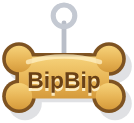
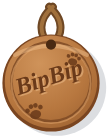
Thẻ tên thành đĩa gỗ tròn khắc chìm theo ảnh thật
- Đĩa tròn nâu đồng, viền chìm sát mép, chữ BipBip nghiêng và dấu chân khắc chìm
- Dây da lộn mảnh luồn qua lỗ ở đỉnh, gập thành quai dưới cằm; bỏ khoen kim loại
- Lắc quanh lỗ treo (100, 150,5); tạo lại PNG tag, parts, penguin-plush.svg, README Rive

Claude-Session: https://claude.ai/code/session_01QMkjUPyG7HGKPseKjEMk1E

diff --git a/packages/web/penguin.js b/packages/web/penguin.js
@@ -661,9 +661,9 @@
     '<linearGradient id="' + N + 'beak" x1="0" y1="0" x2="0" y2="1">' +
       '<stop offset="0" stop-color="#F7DE80"/><stop offset=".55" stop-color="#F2D46B"/><stop offset="1" stop-color="#E9C95E"/>' +
     '</linearGradient>' +
-    '<linearGradient id="' + N + 'tag" x1="0" y1="0" x2="0" y2="1">' +
-      '<stop offset="0" stop-color="#F6D27A"/><stop offset=".55" stop-color="#E7B455"/><stop offset="1" stop-color="#D59A3B"/>' +
-    '</linearGradient>' +
+    '<radialGradient id="' + N + 'tag" cx=".38" cy=".3" r=".85">' +
+      '<stop offset="0" stop-color="#CF935A"/><stop offset=".6" stop-color="#B7773F"/><stop offset="1" stop-color="#9C6130"/>' +
+    '</radialGradient>' +
     '<linearGradient id="' + N + 'beakb" x1="0" y1="0" x2="0" y2="1">' +
       '<stop offset="0" stop-color="#EACB60"/><stop offset="1" stop-color="#E3BE4F"/>' +
     '</linearGradient>';
@@ -701,14 +701,11 @@
   var tufts = 'M95 30 C90 24 90 17 95 13 C95 19 98 24 101 28 Z M100 28 C100 21 103 15 110 14 C106 19 105 24 107 30 Z' +
     'M88 32 C83 29 81 24 83 19 C85 24 89 27 94 29 Z M106 30 C110 26 115 24 119 25 C115 27 112 30 111 33 Z';
 
-  // Thẻ khúc xương: thân chữ nhật bo tròn cộng bốn núm ở hai đầu; grow nới viền ra để vẽ đường viền
-  var TAG_SHAPE = function (g) {
-    return '<rect x="' + (85 - g) + '" y="' + (157.2 - g) + '" width="30" height="14" rx="' + (4 + g) + '"/>' +
-      [[85, 158], [85, 170.4], [115, 158], [115, 170.4]].map(function (c) {
-        return '<circle cx="' + c[0] + '" cy="' + c[1] + '" r="' + (4.4 + g) + '"/>';
-      }).join('');
-  };
-  var TAG_SHADOW = '<g opacity=".16" transform="translate(2 2.4)" fill="#3E4757">' + TAG_SHAPE(1.2) + '</g>';
+  // Dấu chân thú: một đệm lớn và bốn ngón, vẽ quanh gốc (0 0), dùng khắc chìm lên thẻ
+  var TAG_PAW = '<g fill="#6A3A1A" opacity=".85">' +
+    '<ellipse cx="0" cy="1.6" rx="3" ry="2.4"/>' +
+    '<circle cx="-3.6" cy="-1.6" r="1.25"/><circle cx="-1.25" cy="-3.2" r="1.25"/>' +
+    '<circle cx="1.25" cy="-3.2" r="1.25"/><circle cx="3.6" cy="-1.6" r="1.25"/></g>';
 
   var character =
     '<g class="pg-bodyg">' +
@@ -736,18 +733,30 @@
         '<g transform="translate(0 4)"><path d="' + tufts + '" fill="#5A6475"/>' +
         strands('M97 29l-4 -10M101 28l1 -11M104 30l5 -9M92 31l-7 -6', '#5A6475', 1.6) + '</g>' +
       '</g>' +
-      // thẻ tên thú cưng hình khúc xương treo ở cổ: khoen kim loại ở (100 143), lắc nhẹ quanh khoen
+      // thẻ tên gỗ tròn khắc chìm, treo bằng dây da lộn luồn qua lỗ ở đỉnh; lắc nhẹ quanh lỗ (100 150.5)
       '<g class="pg-tag">' +
-        '<path d="M100 146 L100 157" stroke="#B9BEC8" stroke-width="1.6" stroke-linecap="round"/>' +
-        TAG_SHADOW +
-        '<g fill="#7E5322">' + TAG_SHAPE(1.2) + '</g>' +
-        '<g fill="' + u('tag') + '">' + TAG_SHAPE(0) + '</g>' +
-        '<path d="M88 159 Q100 155.4 112 159" fill="none" stroke="#FFF0C4" stroke-width="1.5" stroke-linecap="round" opacity=".75"/>' +
-        '<g font-family="Arial Rounded MT Bold, Arial, sans-serif" font-weight="900" font-size="7.6" text-anchor="middle">' +
-          '<text x="100" y="168.7" fill="#FFF3CF" opacity=".9">BipBip</text>' +
-          '<text x="100" y="167.7" fill="#6A4116">BipBip</text>' +
+        '<ellipse cx="102" cy="165.6" rx="16.4" ry="16" fill="#3E4757" opacity=".18"/>' +
+        // dây da lộn: hai nhánh bắt chéo qua lỗ, gập lên dưới cằm
+        '<g fill="none" stroke-linecap="round">' +
+          '<path d="M99.2 151.2 C95.6 147 96.2 142.4 100.6 138.6" stroke="#6E4724" stroke-width="2.7"/>' +
+          '<path d="M100.8 151.2 C104.4 147 103.8 142.4 99.4 138.6" stroke="#6E4724" stroke-width="2.7"/>' +
+          '<path d="M99.2 151.2 C95.6 147 96.2 142.4 100.6 138.6" stroke="#A0703C" stroke-width="1.3"/>' +
+          '<path d="M100.8 151.2 C104.4 147 103.8 142.4 99.4 138.6" stroke="#A0703C" stroke-width="1.3"/>' +
         '</g>' +
-        '<circle cx="100" cy="143.6" r="3.6" fill="none" stroke="#C4C9D2" stroke-width="1.7"/>' +
+        '<circle cx="100" cy="164" r="16.2" fill="#7A4520"/>' +
+        '<circle cx="100" cy="163.6" r="15.4" fill="' + u('tag') + '"/>' +
+        // vòng viền chìm sát mép
+        '<circle cx="100" cy="163.6" r="13.2" fill="none" stroke="#7E4A25" stroke-width=".9" opacity=".85"/>' +
+        '<circle cx="100" cy="164.2" r="13.2" fill="none" stroke="#E1A56B" stroke-width=".6" opacity=".55"/>' +
+        '<path d="M88 154.6 Q100 148.6 112 154.6" fill="none" stroke="#E9B885" stroke-width="1.4" stroke-linecap="round" opacity=".55"/>' +
+        '<circle cx="100" cy="151.2" r="1.7" fill="#4A2A12"/>' +
+        // họa tiết dấu chân và chữ khắc chìm
+        '<g transform="translate(107.4 156.2) rotate(14) scale(.5)">' + TAG_PAW + '</g>' +
+        '<g transform="translate(94.6 173.6) rotate(-16) scale(.62)">' + TAG_PAW + '</g>' +
+        '<g transform="rotate(-18 100 164.2)" font-family="Brush Script MT, Segoe Script, Georgia, Times New Roman, serif" font-style="italic" font-weight="700" font-size="8" text-anchor="middle">' +
+          '<text x="100.4" y="165.1" fill="#E9B885" opacity=".6">BipBip</text>' +
+          '<text x="100" y="164.5" fill="#6A3A1A">BipBip</text>' +
+        '</g>' +
       '</g>' +
       '<g transform="translate(100 33) rotate(-6) scale(1.1) translate(-100 -44)">' + P.CAP + '</g>' +
       '<g class="pg-face">' +
@@ -790,7 +799,7 @@
     '.pg-cheek-l{transform-origin:54px 109px}.pg-cheek-r{transform-origin:146px 109px}' +
     '.pg-brow-l{transform-origin:64px 83px}.pg-brow-r{transform-origin:136px 83px}' +
     '.pg-face{transform-origin:100px 100px}' +
-    '.pg-tag{transform-origin:100px 143.6px}';
+    '.pg-tag{transform-origin:100px 150.5px}';
 
   P.registerVariant('plush', {
     label: 'Plush',

diff --git a/penguin.js b/penguin.js
@@ -661,9 +661,9 @@
     '<linearGradient id="' + N + 'beak" x1="0" y1="0" x2="0" y2="1">' +
       '<stop offset="0" stop-color="#F7DE80"/><stop offset=".55" stop-color="#F2D46B"/><stop offset="1" stop-color="#E9C95E"/>' +
     '</linearGradient>' +
-    '<linearGradient id="' + N + 'tag" x1="0" y1="0" x2="0" y2="1">' +
-      '<stop offset="0" stop-color="#F6D27A"/><stop offset=".55" stop-color="#E7B455"/><stop offset="1" stop-color="#D59A3B"/>' +
-    '</linearGradient>' +
+    '<radialGradient id="' + N + 'tag" cx=".38" cy=".3" r=".85">' +
+      '<stop offset="0" stop-color="#CF935A"/><stop offset=".6" stop-color="#B7773F"/><stop offset="1" stop-color="#9C6130"/>' +
+    '</radialGradient>' +
     '<linearGradient id="' + N + 'beakb" x1="0" y1="0" x2="0" y2="1">' +
       '<stop offset="0" stop-color="#EACB60"/><stop offset="1" stop-color="#E3BE4F"/>' +
     '</linearGradient>';
@@ -701,14 +701,11 @@
   var tufts = 'M95 30 C90 24 90 17 95 13 C95 19 98 24 101 28 Z M100 28 C100 21 103 15 110 14 C106 19 105 24 107 30 Z' +
     'M88 32 C83 29 81 24 83 19 C85 24 89 27 94 29 Z M106 30 C110 26 115 24 119 25 C115 27 112 30 111 33 Z';
 
-  // Thẻ khúc xương: thân chữ nhật bo tròn cộng bốn núm ở hai đầu; grow nới viền ra để vẽ đường viền
-  var TAG_SHAPE = function (g) {
-    return '<rect x="' + (85 - g) + '" y="' + (157.2 - g) + '" width="30" height="14" rx="' + (4 + g) + '"/>' +
-      [[85, 158], [85, 170.4], [115, 158], [115, 170.4]].map(function (c) {
-        return '<circle cx="' + c[0] + '" cy="' + c[1] + '" r="' + (4.4 + g) + '"/>';
-      }).join('');
-  };
-  var TAG_SHADOW = '<g opacity=".16" transform="translate(2 2.4)" fill="#3E4757">' + TAG_SHAPE(1.2) + '</g>';
+  // Dấu chân thú: một đệm lớn và bốn ngón, vẽ quanh gốc (0 0), dùng khắc chìm lên thẻ
+  var TAG_PAW = '<g fill="#6A3A1A" opacity=".85">' +
+    '<ellipse cx="0" cy="1.6" rx="3" ry="2.4"/>' +
+    '<circle cx="-3.6" cy="-1.6" r="1.25"/><circle cx="-1.25" cy="-3.2" r="1.25"/>' +
+    '<circle cx="1.25" cy="-3.2" r="1.25"/><circle cx="3.6" cy="-1.6" r="1.25"/></g>';
 
   var character =
     '<g class="pg-bodyg">' +
@@ -736,18 +733,30 @@
         '<g transform="translate(0 4)"><path d="' + tufts + '" fill="#5A6475"/>' +
         strands('M97 29l-4 -10M101 28l1 -11M104 30l5 -9M92 31l-7 -6', '#5A6475', 1.6) + '</g>' +
       '</g>' +
-      // thẻ tên thú cưng hình khúc xương treo ở cổ: khoen kim loại ở (100 143), lắc nhẹ quanh khoen
+      // thẻ tên gỗ tròn khắc chìm, treo bằng dây da lộn luồn qua lỗ ở đỉnh; lắc nhẹ quanh lỗ (100 150.5)
       '<g class="pg-tag">' +
-        '<path d="M100 146 L100 157" stroke="#B9BEC8" stroke-width="1.6" stroke-linecap="round"/>' +
-        TAG_SHADOW +
-        '<g fill="#7E5322">' + TAG_SHAPE(1.2) + '</g>' +
-        '<g fill="' + u('tag') + '">' + TAG_SHAPE(0) + '</g>' +
-        '<path d="M88 159 Q100 155.4 112 159" fill="none" stroke="#FFF0C4" stroke-width="1.5" stroke-linecap="round" opacity=".75"/>' +
-        '<g font-family="Arial Rounded MT Bold, Arial, sans-serif" font-weight="900" font-size="7.6" text-anchor="middle">' +
-          '<text x="100" y="168.7" fill="#FFF3CF" opacity=".9">BipBip</text>' +
-          '<text x="100" y="167.7" fill="#6A4116">BipBip</text>' +
+        '<ellipse cx="102" cy="165.6" rx="16.4" ry="16" fill="#3E4757" opacity=".18"/>' +
+        // dây da lộn: hai nhánh bắt chéo qua lỗ, gập lên dưới cằm
+        '<g fill="none" stroke-linecap="round">' +
+          '<path d="M99.2 151.2 C95.6 147 96.2 142.4 100.6 138.6" stroke="#6E4724" stroke-width="2.7"/>' +
+          '<path d="M100.8 151.2 C104.4 147 103.8 142.4 99.4 138.6" stroke="#6E4724" stroke-width="2.7"/>' +
+          '<path d="M99.2 151.2 C95.6 147 96.2 142.4 100.6 138.6" stroke="#A0703C" stroke-width="1.3"/>' +
+          '<path d="M100.8 151.2 C104.4 147 103.8 142.4 99.4 138.6" stroke="#A0703C" stroke-width="1.3"/>' +
         '</g>' +
-        '<circle cx="100" cy="143.6" r="3.6" fill="none" stroke="#C4C9D2" stroke-width="1.7"/>' +
+        '<circle cx="100" cy="164" r="16.2" fill="#7A4520"/>' +
+        '<circle cx="100" cy="163.6" r="15.4" fill="' + u('tag') + '"/>' +
+        // vòng viền chìm sát mép
+        '<circle cx="100" cy="163.6" r="13.2" fill="none" stroke="#7E4A25" stroke-width=".9" opacity=".85"/>' +
+        '<circle cx="100" cy="164.2" r="13.2" fill="none" stroke="#E1A56B" stroke-width=".6" opacity=".55"/>' +
+        '<path d="M88 154.6 Q100 148.6 112 154.6" fill="none" stroke="#E9B885" stroke-width="1.4" stroke-linecap="round" opacity=".55"/>' +
+        '<circle cx="100" cy="151.2" r="1.7" fill="#4A2A12"/>' +
+        // họa tiết dấu chân và chữ khắc chìm
+        '<g transform="translate(107.4 156.2) rotate(14) scale(.5)">' + TAG_PAW + '</g>' +
+        '<g transform="translate(94.6 173.6) rotate(-16) scale(.62)">' + TAG_PAW + '</g>' +
+        '<g transform="rotate(-18 100 164.2)" font-family="Brush Script MT, Segoe Script, Georgia, Times New Roman, serif" font-style="italic" font-weight="700" font-size="8" text-anchor="middle">' +
+          '<text x="100.4" y="165.1" fill="#E9B885" opacity=".6">BipBip</text>' +
+          '<text x="100" y="164.5" fill="#6A3A1A">BipBip</text>' +
+        '</g>' +
       '</g>' +
       '<g transform="translate(100 33) rotate(-6) scale(1.1) translate(-100 -44)">' + P.CAP + '</g>' +
       '<g class="pg-face">' +
@@ -790,7 +799,7 @@
     '.pg-cheek-l{transform-origin:54px 109px}.pg-cheek-r{transform-origin:146px 109px}' +
     '.pg-brow-l{transform-origin:64px 83px}.pg-brow-r{transform-origin:136px 83px}' +
     '.pg-face{transform-origin:100px 100px}' +
-    '.pg-tag{transform-origin:100px 143.6px}';
+    '.pg-tag{transform-origin:100px 150.5px}';
 
   P.registerVariant('plush', {
     label: 'Plush',

diff --git a/tools/layers-page.html b/tools/layers-page.html
@@ -21,7 +21,7 @@
     { name: 'shadow', sel: '.pg-shadow', rest: true, pivot: [100, 227] },
     { name: 'body', sel: '.pg-bodyg > g:nth-child(1)', rest: true, pivot: [100, 224] },
     { name: 'head', sel: '.pg-bodyg > g:nth-child(2)', rest: true, pivot: [100, 135] },
-    { name: 'tag', sel: '.pg-tag', rest: true, pivot: [100, 143.6] },
+    { name: 'tag', sel: '.pg-tag', rest: true, pivot: [100, 150.5] },
     { name: 'cap', sel: '.pg-cap', force: true, pivot: [100, 50] },
     { name: 'brow_l', sel: '.pg-brow-l', parentForce: '.pg-brows' },
     { name: 'brow_r', sel: '.pg-brow-r', parentForce: '.pg-brows' },

diff --git a/rive/README.md b/rive/README.md
@@ -28,7 +28,7 @@ Tên cố định: `root`, `body`, `head`, `tag`, `wing_l`, `wing_r`, `foot_l`, 
 | `root` | gốc | tất cả (nhảy, nghiêng cả người) | 100, 226 |
 | `body` | `root` | `body` | 100, 224 |
 | `head` | `body` | `head`, `cap`, `brow_*`, `eyes_*`, `cheek_*`, `mouth`, `beak_*` | 100, 135 (gợi ý) |
-| `tag` | `body` | `tag` (thẻ tên khúc xương treo ở khoen kim loại dưới cằm; lắc quanh khoen) | 100, 143,6 |
+| `tag` | `body` | `tag` (thẻ tên gỗ tròn, đường kính khoảng 32 đơn vị, kèm dây da lộn gập thành quai treo dưới cằm; lắc quanh lỗ ở đỉnh thẻ) | 100, 150,5 |
 | `eye_l`, `eye_r` | `head` | `eye_l`, `eye_r` (nhìn quanh, chớp mắt) | 64, 94 và 136, 94 |
 | `wing_l`, `wing_r` | `body` | `wing_l`, `wing_r` | 41, 149 và 159, 149 |
 | `foot_l`, `foot_r` | `root` | `foot_l`, `foot_r` | 71, 227 và 129, 227 |
@@ -80,7 +80,7 @@ Thời lượng một lần là **mili-giây**, khớp với web component (`ONE
 ## 6. Biểu cảm và hiệu ứng
 
 - Các lớp biểu cảm phụ ẩn mặc định (opacity 0) và được bật trong animation: `eyes_happy` (mắt cười), `eyes_closed` (nhắm mắt, ngủ), `eyes_heart` (mắt tim), `mouth` (miệng mở), `brow_*` (lông mày), `cap` (mũ, tùy chọn). Khi bật `eyes_*` thì ẩn `eye_l`, `eye_r`.
-- Thẻ tên (`tag`, hình khúc xương khắc chữ BipBip, treo ở khoen dưới cằm) lắc nhẹ quanh khoen: `idle` và `talk` xoay khoảng ±7° chu kỳ 2,8 giây; `happy`, `celebrate`, `love`, `yes` xoay khoảng ±14° chu kỳ 0,6 giây (theo bản web). Các trạng thái khác để yên.
+- Thẻ tên (`tag`, đĩa tròn khắc chìm chữ BipBip và dấu chân, dây da lộn đi kèm trong cùng ảnh) lắc nhẹ quanh lỗ treo: `idle` và `talk` xoay khoảng ±7° chu kỳ 2,8 giây; `happy`, `celebrate`, `love`, `yes` xoay khoảng ±14° chu kỳ 0,6 giây (theo bản web). Các trạng thái khác để yên.
 - Hiệu ứng từ `fx/*.svg` là layer riêng, **ẩn mặc định**, chỉ hiện trong animation tương ứng: `flame` (streak), `hearts` (love), `zzz` (sleep), `question` (think), `exclaim` (surprised), `sparkles` (celebrate), `confetti` (celebrate), `tear` (sad), `sweat`.
 - `flame` nằm **sau** nhân vật; các hiệu ứng khác nằm trước.
 

diff --git a/docs/PLAN.md b/docs/PLAN.md
@@ -38,7 +38,7 @@ sau. Phần nào cần con người (dựng animation trong Rive editor) đượ
   `feTurbulence`/`feDisplacementMap`). Bản `classic` đã bỏ.
 - Các bộ phận đã tách lớp với class `pg-*`: `pg-body`, `pg-belly`, `pg-face`,
   `pg-wing-l/r`, `pg-foot-l/r`, `pg-pupil`, `pg-beak-top/bot`, `pg-brows`,
-  `pg-eyes-happy/closed/heart`, `pg-mouth`, `pg-cap`, `pg-tag` (thẻ tên khúc xương ở cổ, luôn hiện; lắc), hiệu ứng (`pg-confetti`,
+  `pg-eyes-happy/closed/heart`, `pg-mouth`, `pg-cap`, `pg-tag` (thẻ tên gỗ tròn treo dây da lộn dưới cằm, luôn hiện; lắc), hiệu ứng (`pg-confetti`,
   `pg-heart`, `pg-z`, `pg-tear`, `pg-flame`...).
 - 15 trạng thái: lặp `idle, think, sleep, dance, walk, talk`; một lần `wave,
   happy, celebrate, sad, surprised, no, yes, love, streak` (thời lượng ở `ONE_SHOT`).

diff --git a/art/plush/parts.md b/art/plush/parts.md
@@ -9,7 +9,7 @@ Tâm = nơi đặt ảnh nếu Rive đặt theo tâm. Pivot = tâm xoay gợi ý
 | `shadow` | có | 47.33 | 219.33 | 105.33 | 15.33 | 100 | 227 | 100, 227 |
 | `body` | có | 30 | 115.33 | 140 | 112.67 | 100 | 171.67 | 100, 224 |
 | `head` | có | 16.33 | 15.67 | 167.33 | 129 | 100 | 80.17 | 100, 135 |
-| `tag` | có | 78.67 | 138.33 | 44.67 | 41 | 101.01 | 158.83 | 100, 143.6 |
+| `tag` | có | 83 | 136.33 | 36.33 | 46 | 101.17 | 159.33 | 100, 150.5 |
 | `cap` | không | 51 | 10.33 | 97.67 | 47.67 | 99.84 | 34.17 | 100, 50 |
 | `brow_l` | không | 55 | 79.67 | 18 | 6.33 | 64 | 82.84 | 64, 83 |
 | `brow_r` | không | 127 | 79.67 | 18 | 6.33 | 136 | 82.84 | 136, 83 |
